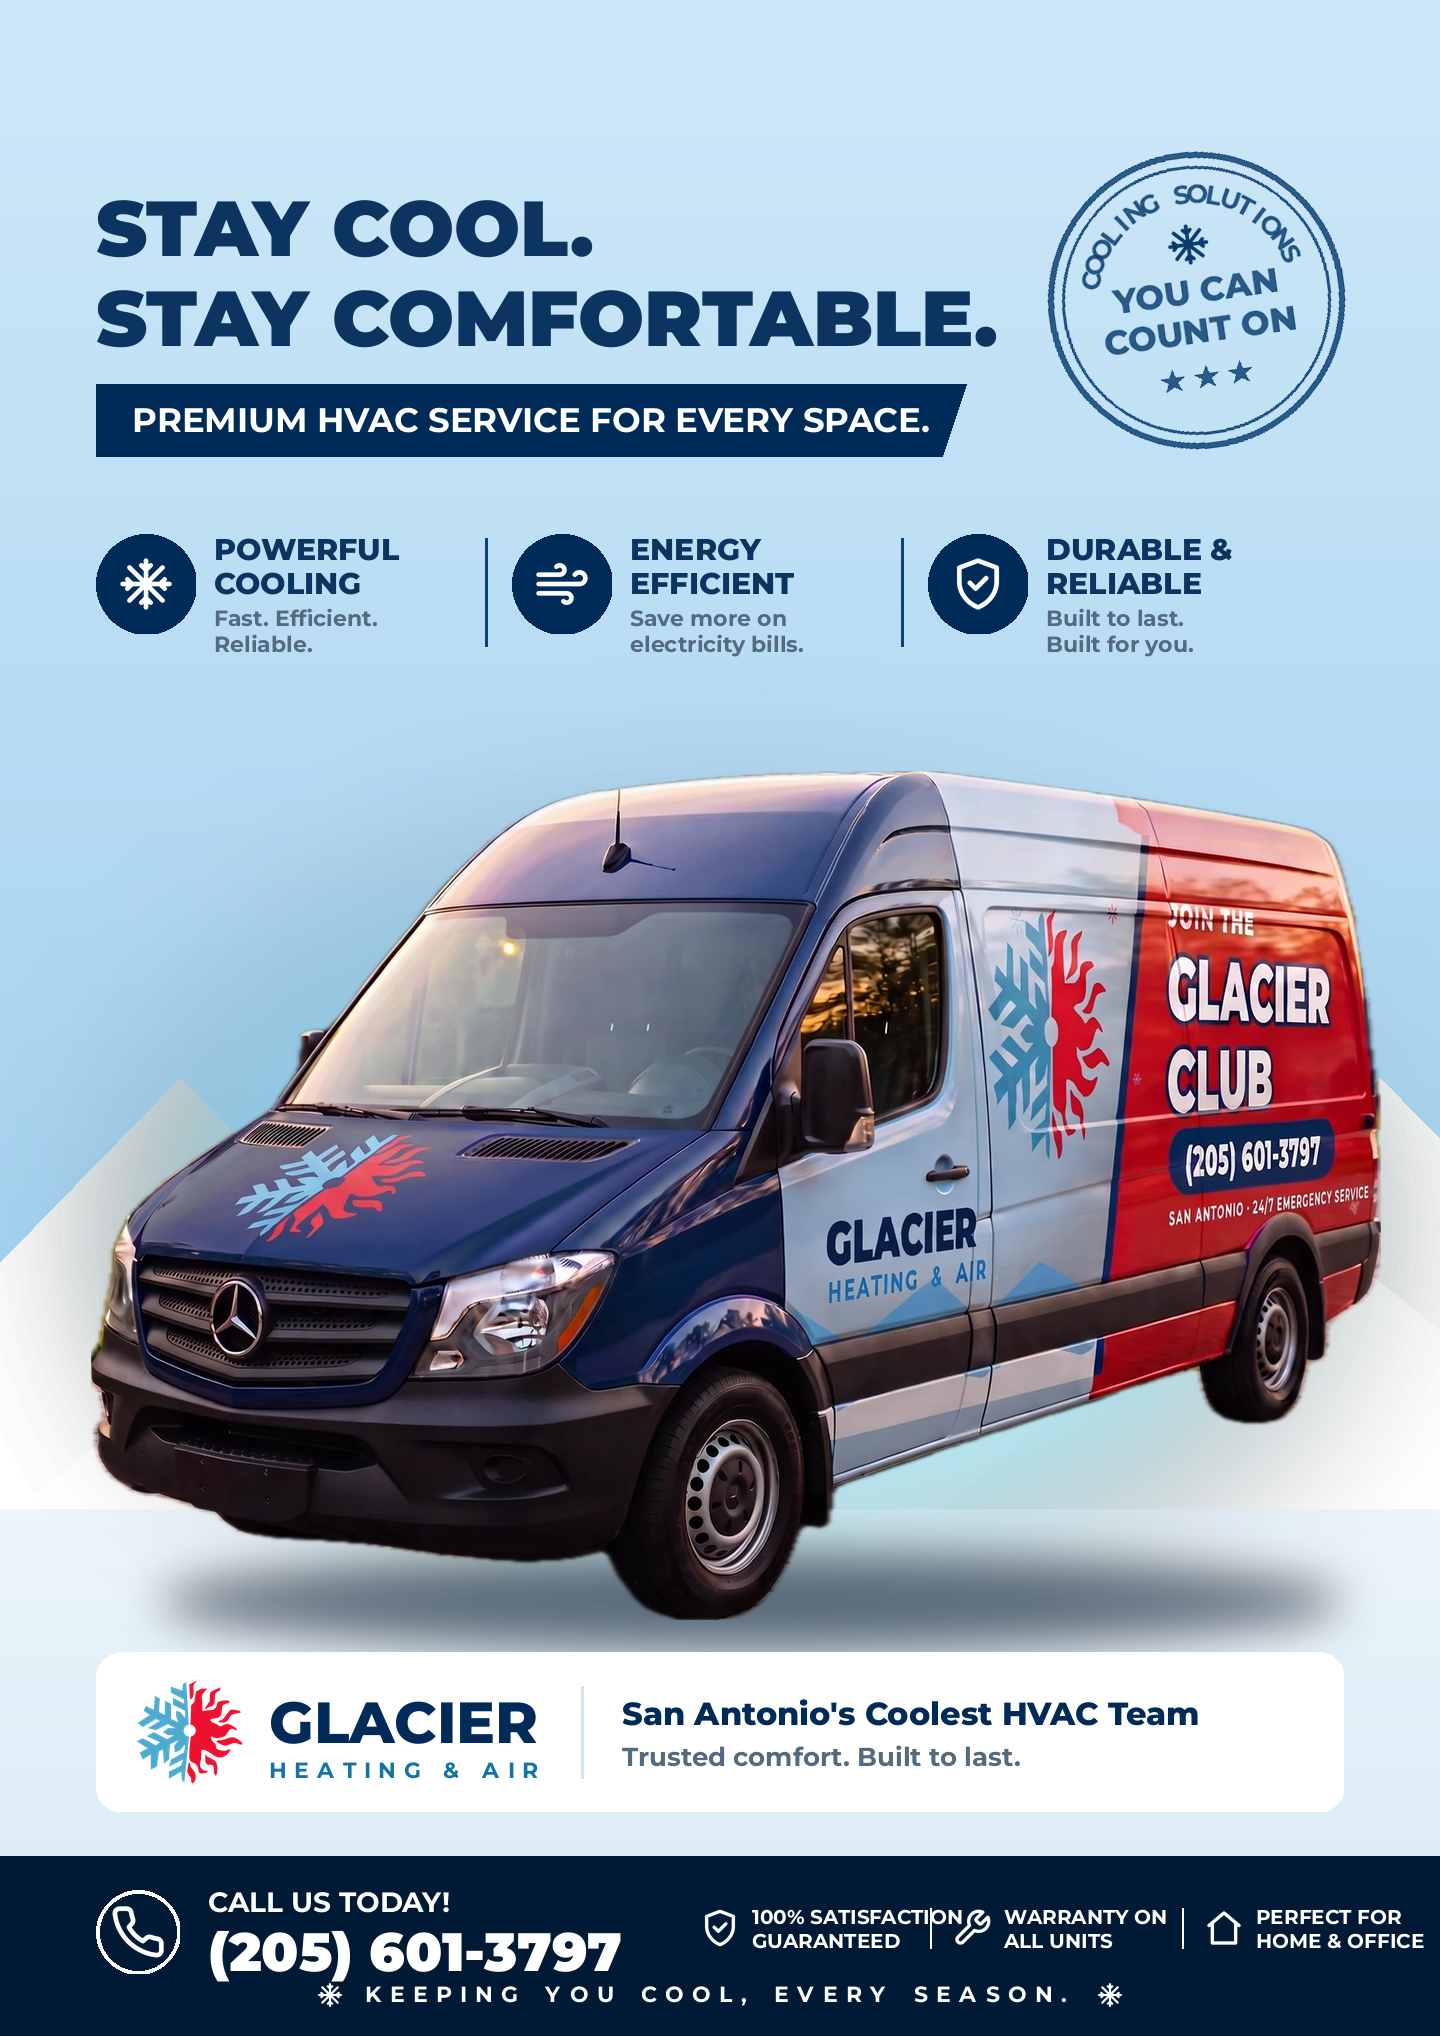
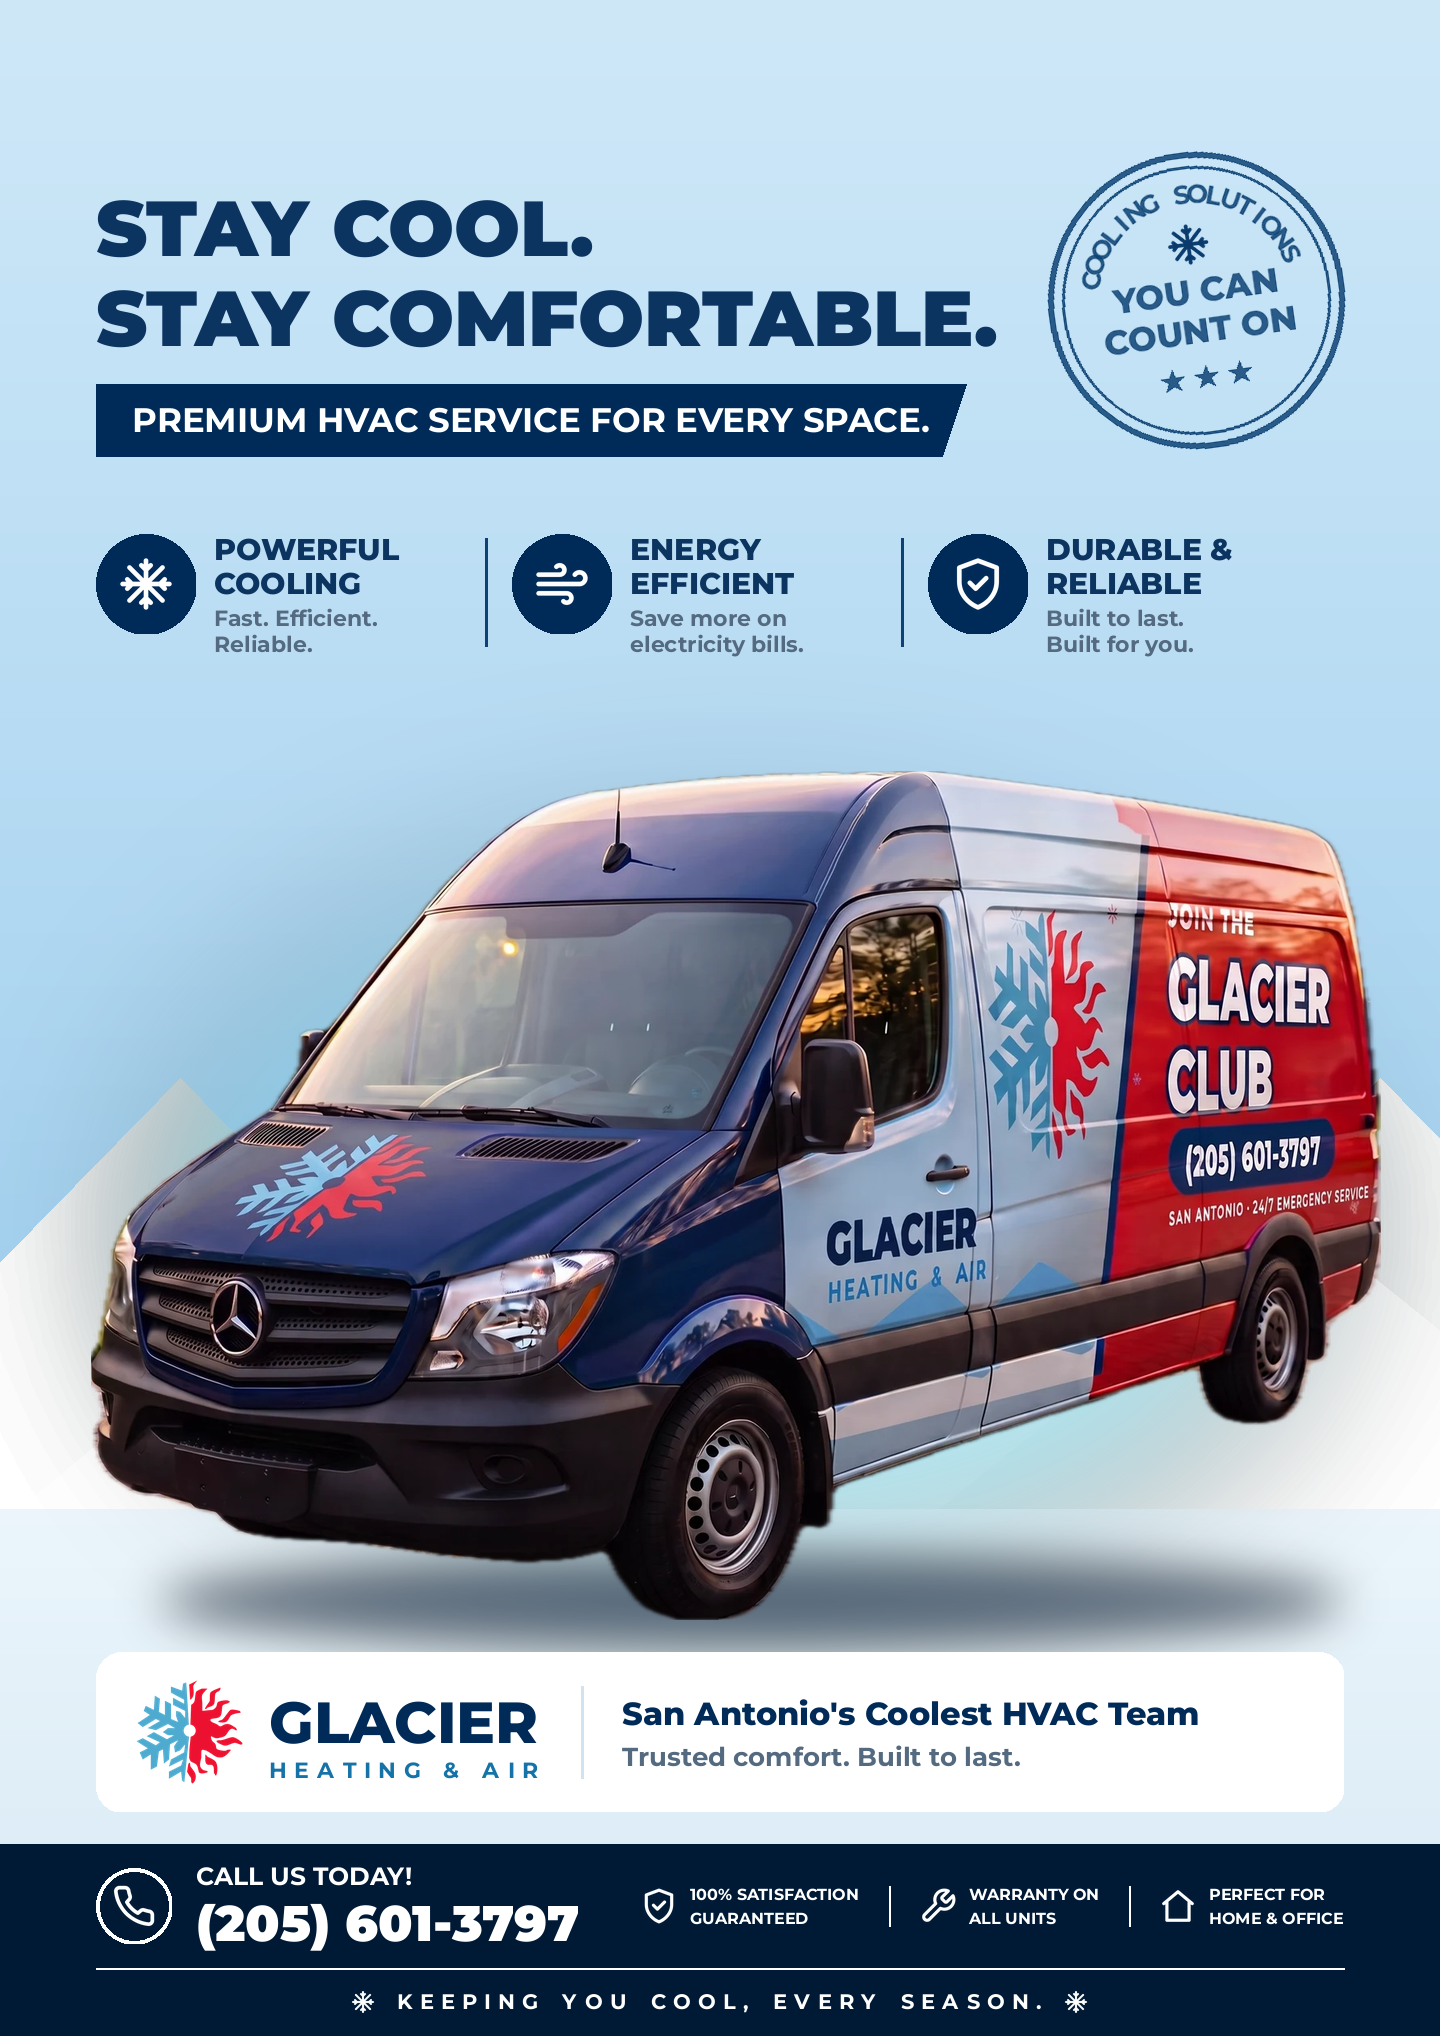
Van ad: rebuild CTA bar — measured trust-item spacing, guaranteed gap after phone number, baseline-correct sign-off punctuation

Changed region(s): [[0.0, 0.8973, 1.0, 0.9902]]

diff --git a/glacier-site/scratchpad/make_van_ad.py b/glacier-site/scratchpad/make_van_ad.py
@@ -186,37 +186,69 @@ d.line([(dvx,wby+34),(dvx,wby+wbh-34)],fill=(210,226,240,255),width=3)
 d.text((dvx+40,wby+42),"San Antonio's Coolest HVAC Team",font=f("ExtraBold",32),fill=NAVY)
 d.text((dvx+40,wby+88),"Trusted comfort. Built to last.",font=f("Bold",26),fill=SLATE)
 
-# ---------------- navy CTA bar ----------------
-cy0=1856
+# ---------------- navy CTA bar (measured, collision-free) ----------------
+cy0=1844
 d.rectangle([0,cy0,W,H],fill=DEEP)
-# left: phone
-ph=load_ic("check",0) if False else None
-phicon=Image.open("scratchpad/phone.png").convert("RGBA").resize((56,56),Image.LANCZOS)
-pc=Image.new("RGBA",(84,84),(0,0,0,0)); pd=ImageDraw.Draw(pc)
-pd.ellipse([0,0,84,84],outline=(255,255,255,255),width=4)
-img.alpha_composite(pc,(MARG,cy0+34)); img.alpha_composite(phicon,(MARG+14,cy0+48))
+
+# left: phone block, vertically centered on row1
+row1_cy = cy0 + 62
+pc=Image.new("RGBA",(76,76),(0,0,0,0)); pd=ImageDraw.Draw(pc)
+pd.ellipse([0,0,76,76],outline=(255,255,255,255),width=4)
+img.alpha_composite(pc,(MARG,row1_cy-38))
+phicon=Image.open("scratchpad/phone.png").convert("RGBA").resize((44,44),Image.LANCZOS)
+img.alpha_composite(phicon,(MARG+16,row1_cy-22))
 d=ImageDraw.Draw(img,"RGBA")
-d.text((MARG+112,cy0+28),"CALL US TODAY!",font=f("Bold",28),fill=(255,255,255,235))
-d.text((MARG+112,cy0+62),"(205) 601-3797",font=f("Black",54),fill=(255,255,255,255))
-# right: trust items
-items=[("shield","100% SATISFACTION","GUARANTEED"),("wrench","WARRANTY ON","ALL UNITS"),("home","PERFECT FOR","HOME & OFFICE")]
-ix=700
-for ic,l1,l2 in items:
-    icn=load_ic(ic,40); img.alpha_composite(icn,(ix,cy0+52))
+px0=MARG+100
+d.text((px0,row1_cy-46),"CALL US TODAY!",font=f("Bold",25),fill=(255,255,255,225))
+d.text((px0,row1_cy-14),"(205) 601-3797",font=f("Black",50),fill=(255,255,255,255))
+
+# right: trust items, measured widths, right-aligned to margin
+items=[("shield","100% SATISFACTION","GUARANTEED"),
+       ("wrench","WARRANTY ON","ALL UNITS"),
+       ("home","PERFECT FOR","HOME & OFFICE")]
+ICO=38; IG=12; DIV=30
+num_end = px0 + tw("(205) 601-3797", f("Black",50))
+fs=18
+while fs>=14:
+    ft=f("Bold",fs)
+    widths=[ICO+IG+max(tw(l1,ft),tw(l2,ft)) for _,l1,l2 in items]
+    total=sum(widths)+DIV*2*(len(items)-1)
+    if W-MARG-total >= num_end+56: break
+    fs-=1
+ix=W-MARG-total
+for k,(ic,l1,l2) in enumerate(items):
+    icn=load_ic(ic,ICO); img.alpha_composite(icn,(int(ix),int(row1_cy-ICO/2)))
     d=ImageDraw.Draw(img,"RGBA")
-    d.text((ix+52,cy0+48),l1,font=f("Bold",20),fill=(255,255,255,255))
-    d.text((ix+52,cy0+72),l2,font=f("Bold",20),fill=(255,255,255,255))
-    if ix>700: d.line([(ix-22,cy0+52),(ix-22,cy0+92)],fill=(255,255,255,70),width=2)
-    ix+=252
-# bottom tracked line
+    txx=ix+ICO+IG
+    d.text((txx,row1_cy-22),l1,font=ft,fill=(255,255,255,255))
+    d.text((txx,row1_cy+2),l2,font=ft,fill=(255,255,255,255))
+    ix+=widths[k]
+    if k<len(items)-1:
+        d.line([(ix+DIV,row1_cy-20),(ix+DIV,row1_cy+20)],fill=(255,255,255,70),width=2)
+        ix+=DIV*2
+
+# divider rule between rows
+d.line([(MARG,cy0+124),(W-MARG,cy0+124)],fill=(255,255,255,36),width=2)
+
+# row 2: centered tracked sign-off with clear air
 line="KEEPING YOU COOL, EVERY SEASON."
-fl=f("Bold",22)
-lw=sum(tw(c,fl)+8 if c!=' ' else 19 for c in line)
+fl=f("Bold",21); TRK=7
+lw=sum((tw(c,fl)+TRK) if c!=' ' else 17 for c in line)-TRK
+row2_cy=cy0+158
 sx=(W-lw)//2
-snl=load_ic("snowflake",26)
-img.alpha_composite(snl,(sx-48,cy0+126)); img.alpha_composite(snl,(int(sx+lw+22),cy0+126))
+snl=load_ic("snowflake",24)
+img.alpha_composite(snl,(int(sx-46),int(row2_cy-12)))
+img.alpha_composite(snl,(int(sx+lw+22),int(row2_cy-12)))
 d=ImageDraw.Draw(img,"RGBA")
-tracked(sx,cy0+124,line,fl,(255,255,255,200),8)
+ref=d.textbbox((0,0),"K",font=fl)
+ytop=row2_cy-(ref[3]-ref[1])/2-ref[1]
+xx=sx
+for c in line:
+    if c!=' ':
+        d.text((xx,ytop),c,font=fl,fill=(255,255,255,205))
+        xx+=tw(c,fl)+TRK
+    else:
+        xx+=17
 
 img.convert("RGB").save("scratchpad/van-ad.png",optimize=True)
 print("saved",img.size)
